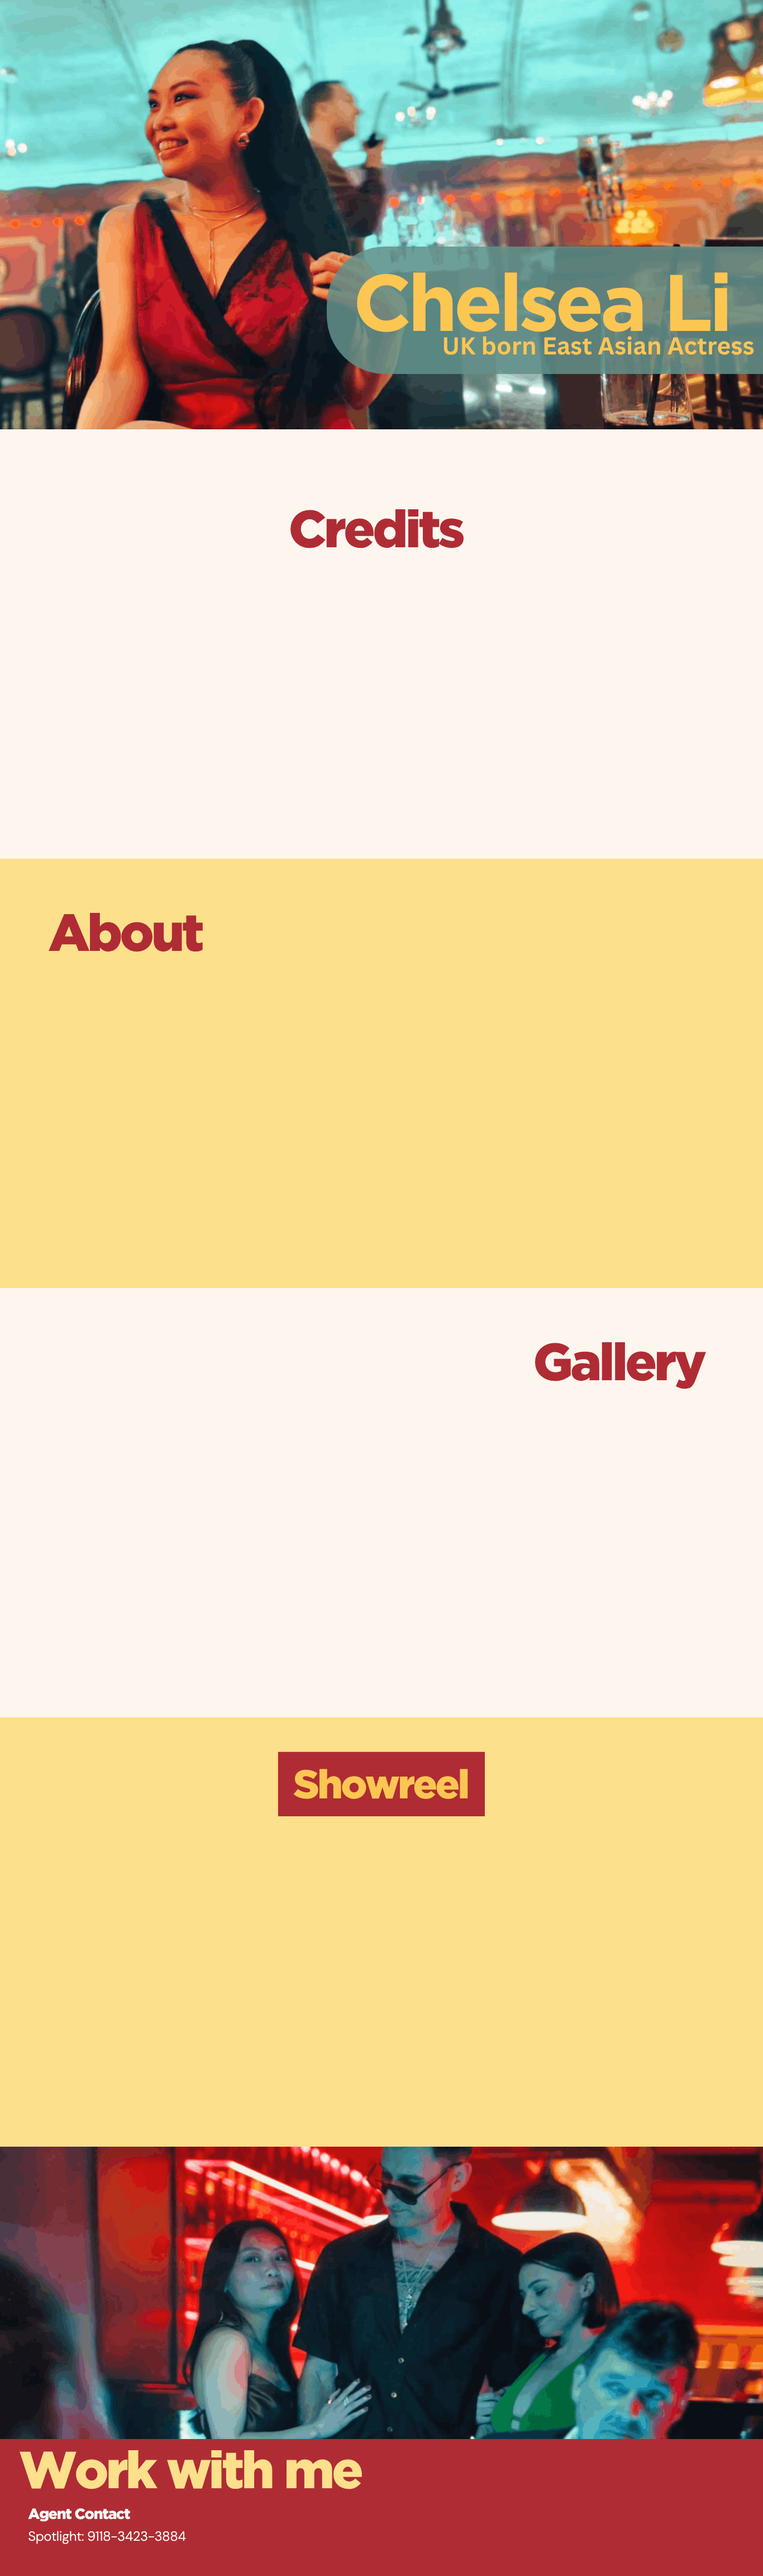
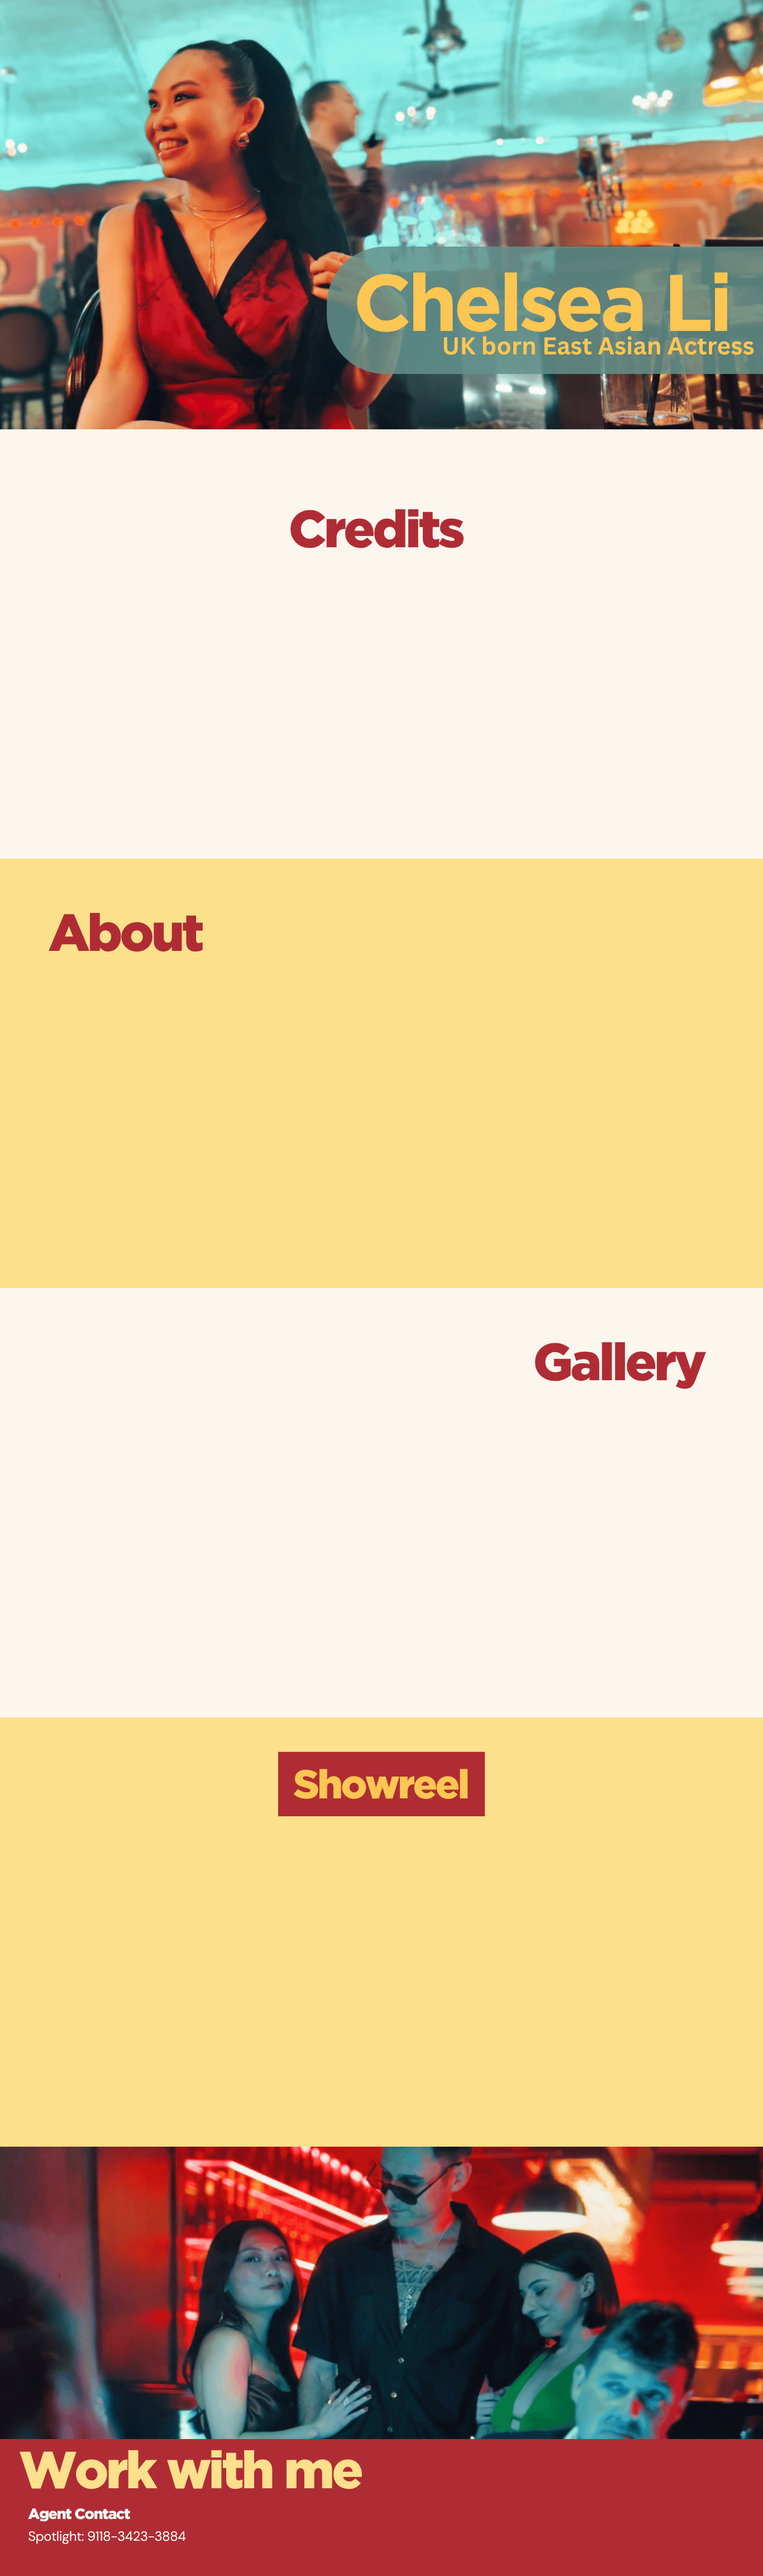
modelpage

diff --git a/src/Pages/modelpage.tsx b/src/Pages/modelpage.tsx
@@ -1,21 +1,69 @@
 import './modelpage.scss'
 import ScrollToTop from 'react-scroll-to-top'
-import logoPort from '../assets/pint.svg'
+import model from '../assets/main/model.png'
+import { Link } from 'react-router-dom'
+import home from '../assets/house.svg'
+import Footer from '../Components/footer'
+import ModelVideo from '../Components/modelvideo'
 
 function Modelpage() {
-    return (
-    <>
-      <br></br>
-      <div className='text'>
-
-      " This page is currently under construction " <br></br>
-      For my current modelling portfolio checkout my pinterest board<br></br><br></br>
-      <a href="https://uk.pinterest.com/cbean0261/chelsea-li/?invite_code=f50a35a67c2c4d779cce7e3290f29c10&sender=1021332159153324013" target="_blank">
-        <img className="welcome__logo" width="50px" src={logoPort} alt="pinterest logo"/></a>
-
-      </div>
   
-      <ScrollToTop smooth />
+    return (
+      <>
+     <div className="modelling-page">
+  <img
+    className="modelling-background" fetchPriority="high"
+  decoding="async"
+    src={model}
+    alt="Chelsea Li - London Based British East Asian Commercial Model"
+  />
+
+          <div className="acting-content">
+            <div className="home">
+                <Link className="back" to="/">
+        <img
+    className="home-button"
+    src={home}
+    alt="Actress, Model, UGC Creator"
+  /></Link>
+       </div>
+
+          <section className="gallery-section">
+      
+
+          </section>
+
+          <section className="pinboard-section">
+              <div className="modelabout-container">
+      <div className={`modelabout-text`}>
+        Chelsea Li is a British East Asian Commercial model based in London with over 10 years experience in screen acting and commercial modelling. 
+        <br></br><br></br>
+        With a large portfolio working in stills, video, corporate, VO and UGC, she has worked with big brands such as Fox's Mints, Gunvor, Puttshack, Namco, Hakkasan, Rimmel and so on.
+        <br>
+        </br><br></br>
+        With her vibrant style and great smile she brings a fun vibe to everyshoot 
+      </div>
+<br></br>
+
+    </div>
+          </section>
+
+          <section className="showreel-section">
+          <ModelVideo/>
+          </section>
+
+          <section className="contact-section">
+             
+            <div className="nav">
+
+         <a href="mailto:chelsea.lily.ig@gmail.com" className="button">Email</a>
+
+        </div>
+          </section>
+</div>
+</div>
+  <Footer />
+  <ScrollToTop smooth />
     </>
   )
 }

diff --git a/src/App.scss b/src/App.scss
@@ -11,118 +11,3 @@
 html, body {
   overflow-x: hidden; /* Prevent horizontal scrolling */
 }
-
-/* Typography and spacing for welcome text 
-.welcome {
-  color: #000000;
-  font-size: 2rem;
-  word-wrap: break-word;
-}
-
-/* Flex container for icons 
-.welcome-icons {
-  display: flex;
-  justify-content: center;
-  flex-wrap: wrap;
-  gap: 1rem;
-  margin-top: 5rem;
-  margin-bottom: 2rem;
-}
-
-/* Logo spacing 
-.welcome__logo {
-  margin-left: 20px;
-}
-
-/* Slides 
-.slide_container {
-  display: inline-block;
-  justify-self: center;
-}
-
-.welcome-icons {
-  display: flex;
-  justify-content: center;
-  flex-wrap: wrap;
-  gap: 1rem;
-  margin-top: 5rem;
-  margin-bottom: 2rem;
-}
-
-.welcome-icons img {
-  max-width: 80px;
-  height: auto;
-  transition: transform 0.2s ease;
-}
-
-.welcome-icons img:hover {
-  transform: scale(1.1);
-}
-
-/* Tablet adjustments 
-@media (max-width: 1024px) {
-  .welcome-icons img {
-    max-width: 70px;
-  }
-}
-
-/* Mobile — force 3 columns per row 
-@media (max-width: 768px) {
-  .welcome-icons {
-    display: grid;
-    grid-template-columns: repeat(3, 1fr); /* 3 per row 
-    justify-items: center;
-    gap: 1rem;
-  }
-
-  .welcome-icons img {
-    max-width: 60px;
-  }
-}
-
-/* Very small mobile (iPhone SE / Mini) 
-@media (max-width: 430px) {
-  .welcome-icons img {
-    max-width: 50px;
-  }
-}
-
-
-/* --- Responsive Media Queries --- 
-
-/* Tablets 
-@media (max-width: 1024px) {
-  #root {
-    padding: 1.5rem;
-  }
-
-  .welcome {
-    font-size: 1.8rem;
-  }
-}
-
-/* Mobile Devices 
-@media (max-width: 768px) {
-  #root {
-    padding: 1rem;
-  }
-
-  .welcome {
-    font-size: 1.5rem;
-  }
-}
-
-/* iPhone Pro Max & similar 
-@media (max-width: 430px) {
-  .welcome {
-    font-size: 1.3rem;
-  }
-}
-
-/* Very small mobile 
-@media (max-width: 375px) {
-  .welcome {
-    font-size: 1.2rem;
-  }
-}
-*/

diff --git a/src/Pages/modelpage.scss b/src/Pages/modelpage.scss
@@ -1,5 +1,83 @@
-.text {
-  color: #000000;
-  font-size: 2rem;
-  text-align: center;
+.modelling-page {
+  position: relative;
+  width: 100%;
+  font-family: 'Courier New', Courier, monospace;
+  aspect-ratio: 607 / 2048;
+  font-weight: 600;
+}
+
+.home {
+  position: absolute; 
+  top: 0%;
+  left: 0%;
+}
+
+.modelling-background {
+  display: block;
+  width: 100%;
+  height: auto;
+}
+
+.modelling-content {
+  position: absolute;
+  inset: 0;
+}
+
+.pinboard-section{
+  position: absolute; 
+  top: 54%;
+  left: 0%;
+}
+
+.modelabout-container {
+  width: 52vw;
+  padding-top: 10px;
+  padding-left: 50px;
+  padding-right: 10px;
+  font-size: 1.3rem;
+}
+
+
+/* L Laptop */
+@media (min-width: 1400px) and (max-width: 2500px) {
+.modelabout-container {
+  width: 53vw;
+  padding-top: 20px;
+  padding-left: 70px;
+  padding-right: 70px;
+  font-size: 1.9rem;
+}
+}
+
+/* Tablets */
+@media (max-width: 1023px) {
+.modelabout-container {
+  width: 50vw;
+  padding-top: 20px;
+  padding-left: 30px;
+  padding-right: 70px;
+  font-size: 1rem;
+}
+}
+
+/* L Mobile */
+@media (max-width: 767px) {
+.modelabout-container {
+  width: 50vw;
+  padding-top: 10px;
+  padding-left: 30px;
+  padding-right: 70px;
+  font-size: 0.5rem;
+}
+}
+
+/* Mobile */
+@media (max-width: 424px) {
+.modelabout-container {
+  width: 50vw;
+  padding-top: 10px;
+  padding-left: 20px;
+  padding-right: 70px;
+  font-size: 0.4rem;
+}
 }

diff --git a/src/Components/pinboard.tsx b/src/Components/pinboard.tsx
@@ -1,11 +1,43 @@
-import "./pinboard.scss"
+import './pinboard.scss'
+import ScrollToTop from 'react-scroll-to-top'
+import crouch from '../assets/pinpics/crouch.jpg'
+import smile from '../assets/pinpics/smile.jpg'
+import group from '../assets/pinpics/group.jpg'
+import ferrari from '../assets/pinpics/ferrari.jpg'
+import '@splidejs/splide/css';
+import { Splide, SplideSlide } from '@splidejs/react-splide'
 
 const Pinboard = () => {
     return (
-<br></br>
-)
+
+        <Splide
+                options={ {
+                  rewind: true,
+                  width: "100%",
+                  gap   : '1rem',
+                } }
+                aria-label="slideshow"
+              >
+
+        <SplideSlide>
+            <img src={crouch} alt="Chelsea Li in comedy film - The inbetweeners 2 movie" />
+        </SplideSlide><SplideSlide>
+                <img src={group} alt="Chelsea Li in comedy film - The inbetweeners 2 movie" />
+            </SplideSlide><SplideSlide>
+                <img src={smile} alt="Chelsea Li in comedy film - The inbetweeners 2 movie" />
+            </SplideSlide><SplideSlide>
+                <img src={ferrari} alt="Chelsea Li in comedy film - The inbetweeners 2 movie" />
+            </SplideSlide><ScrollToTop smooth />
+    </Splide>
+
+    )
 }
 
 export default Pinboard;
+
+
+
+
+
 
 

diff --git a/src/Components/modelvideo.tsx b/src/Components/modelvideo.tsx
@@ -1,0 +1,30 @@
+import "./youtube.scss";
+
+const ModelVideo = () => {
+  const videos = [
+    { src: "https://www.youtube.com/embed/jGTMujWIoWc?si=0-HqJO99oFdy4rUh", title: "Showreel 1" },
+
+    // Add more videos if needed
+  ];
+
+  return (
+    <div className="youtube-container">
+
+        {videos.map((video, index) => (
+          <div key={index} className="youtube-item">
+            <div className="video-wrapper">
+              <iframe
+                src={video.src}
+                title={video.title}
+                allow="accelerometer; autoplay; clipboard-write; encrypted-media; gyroscope; picture-in-picture; web-share"
+                allowFullScreen
+              ></iframe>
+            </div>
+          </div>
+        ))}
+      </div>
+
+  );
+};
+
+export default ModelVideo;

diff --git a/src/Components/pinboard.scss b/src/Components/pinboard.scss
@@ -1,0 +1,15 @@
+.splide__slide img {
+    border-radius: 25px;
+  }
+
+  .splide {
+    margin-bottom: 8rem;
+    margin-bottom: 2rem;
+  }
+
+  .splide__arrow {
+  top: 30%;
+  background: #2cafa6;
+  }
+
+  

diff --git a/src/Pages/actingpage.tsx b/src/Pages/actingpage.tsx
@@ -64,10 +64,8 @@ function Actingpage() {
           </section>
 </div>
 </div>
-
   <Footer />
   <ScrollToTop smooth />
-
     </>
   )
 }
